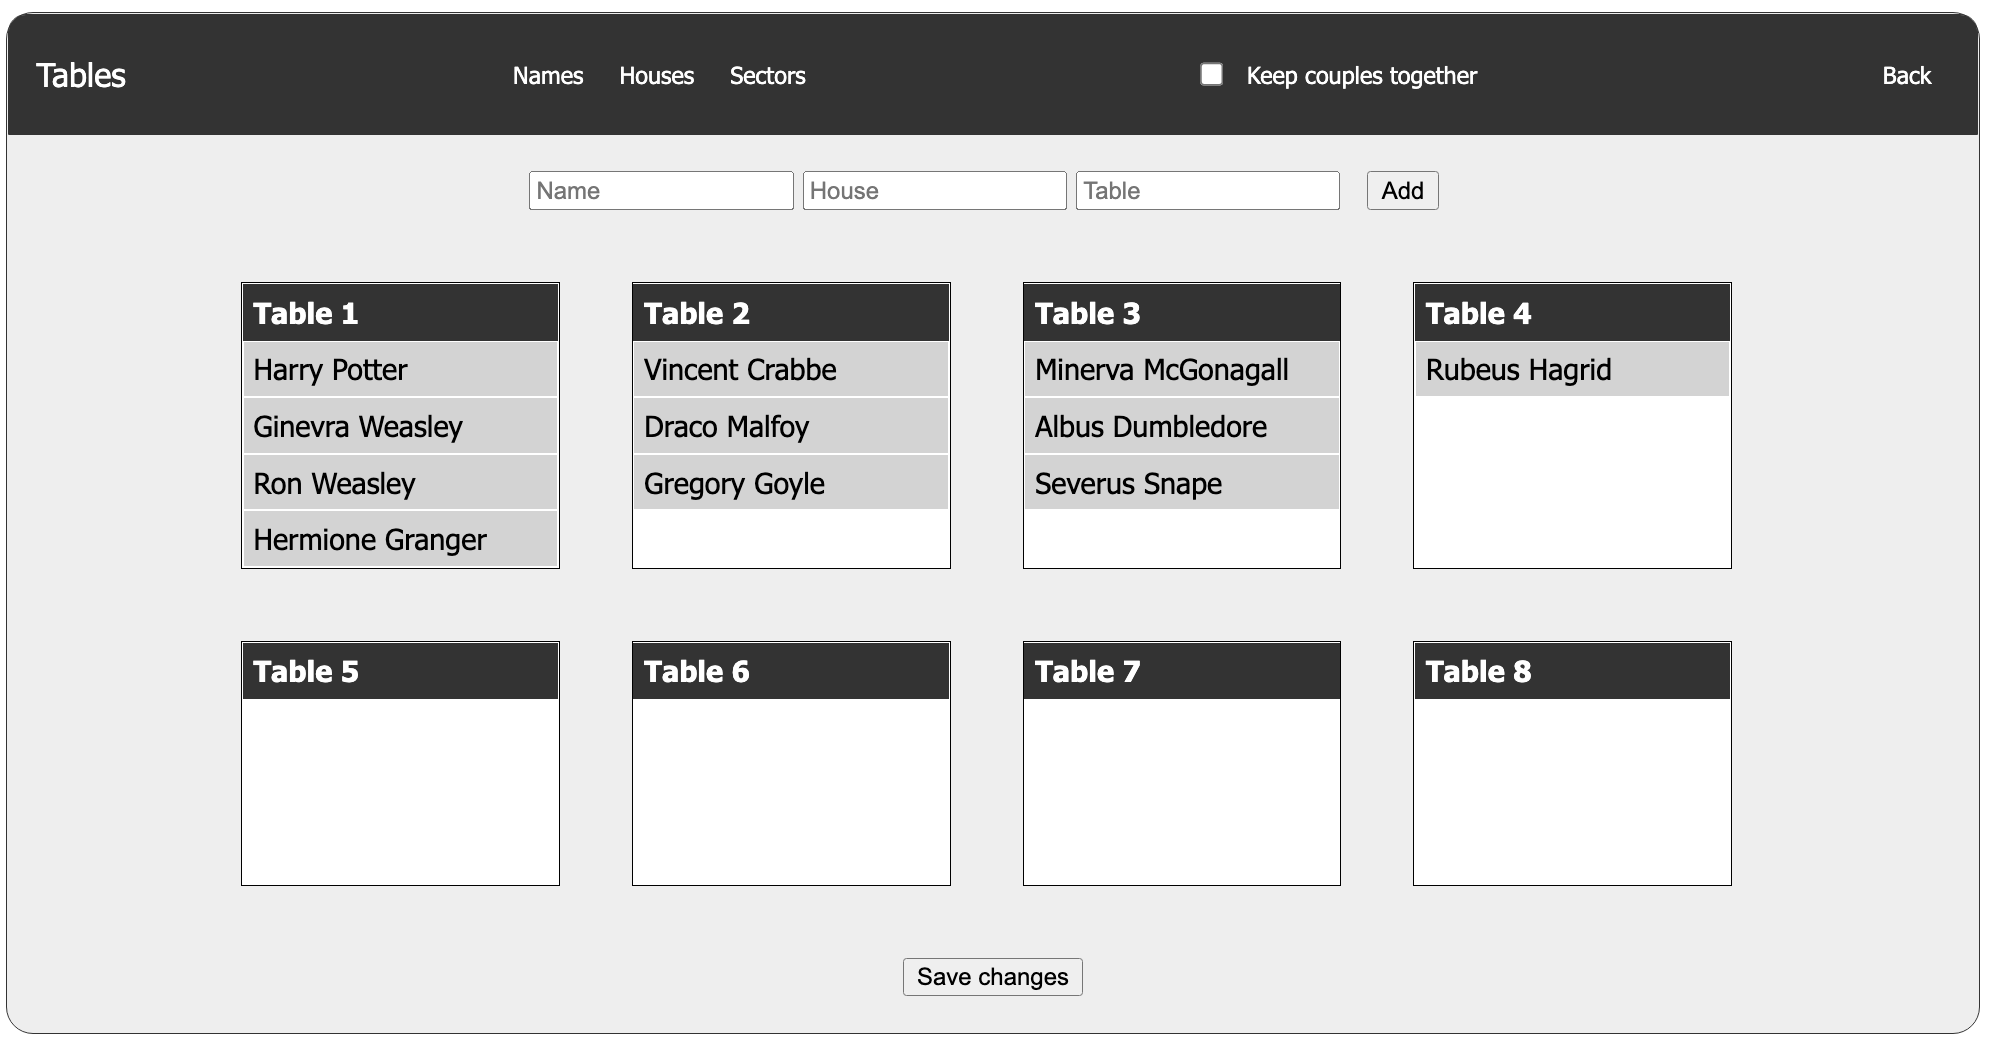
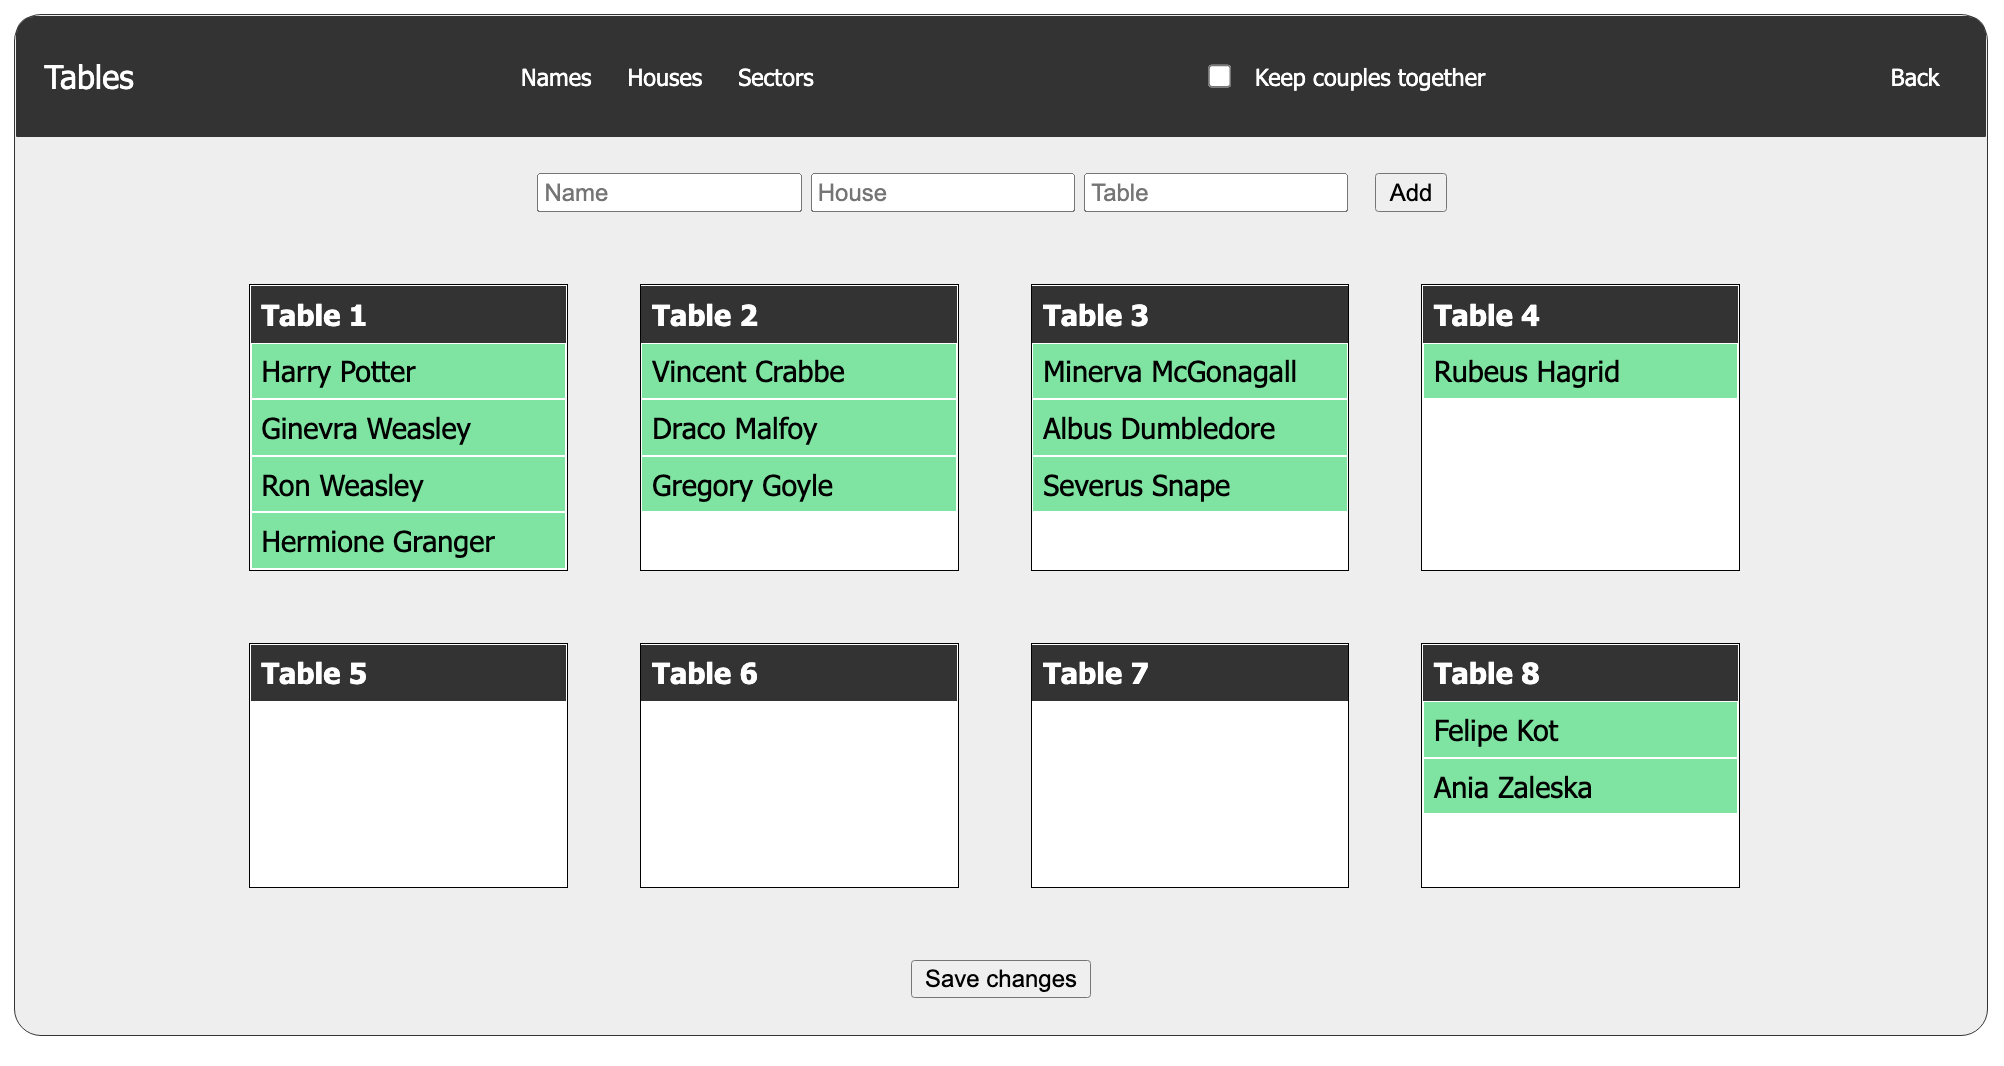
readme update to reflect latest changes

diff --git a/style.css b/style.css
@@ -80,7 +80,7 @@ body {
     margin: 0px;
     padding: 5px;
     display: inline-block;
-    background-color: lightgray;
+    background-color: rgb(83, 231, 155);
     color:black;
     cursor: grab;
     border: 1px solid white;
@@ -88,7 +88,7 @@ body {
 
 .draggable.dragging {
     opacity: 0.3;
-    background-color: aqua;
+    background-color: rgb(131, 233, 180);
 }
 button {
     padding: 20xp;

diff --git a/index.html b/index.html
@@ -4,7 +4,7 @@
     <meta charset="UTF-8">
     <meta http-equiv="X-UA-Compatible" content="IE=edge">
     <meta name="viewport" content="width=device-width, initial-scale=1.0">
-    <title>Document</title>
+    <title>Sitting Plan</title>
     <link rel="stylesheet" href="style.css">
 
 </head>

diff --git a/index.js b/index.js
@@ -1,4 +1,4 @@
-
+// TODO: Update local storage after re-arranging
 
 
 const tables = document.querySelectorAll(".table");

diff --git a/readme.md b/readme.md
@@ -8,7 +8,9 @@ Current features:
 * upload data to local storage
 * populate tables with guests
 * re-arrange sitting plan by drag-and-dropping guests
+* switch view to show other info than names (e.g., houses)
 * add new guests to the tables
+* notify when sitting arrangement exceeds table's capacity
 
 ![screenshot](static/screenshot_2022-08-03.png)
 
